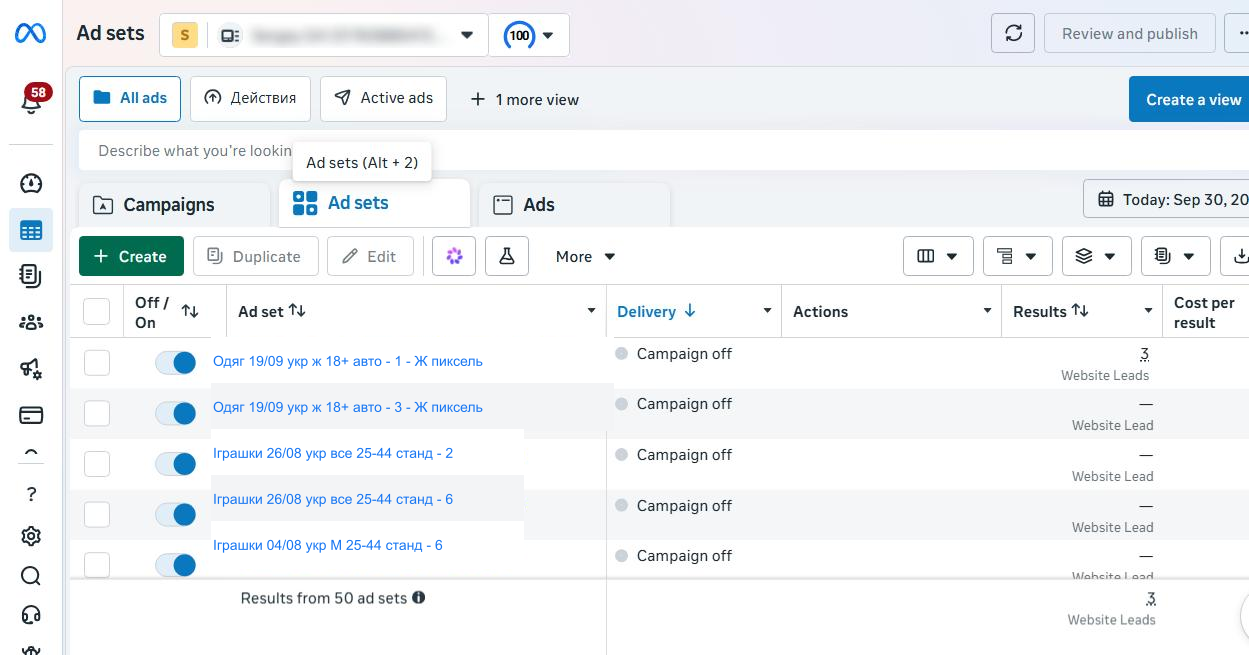
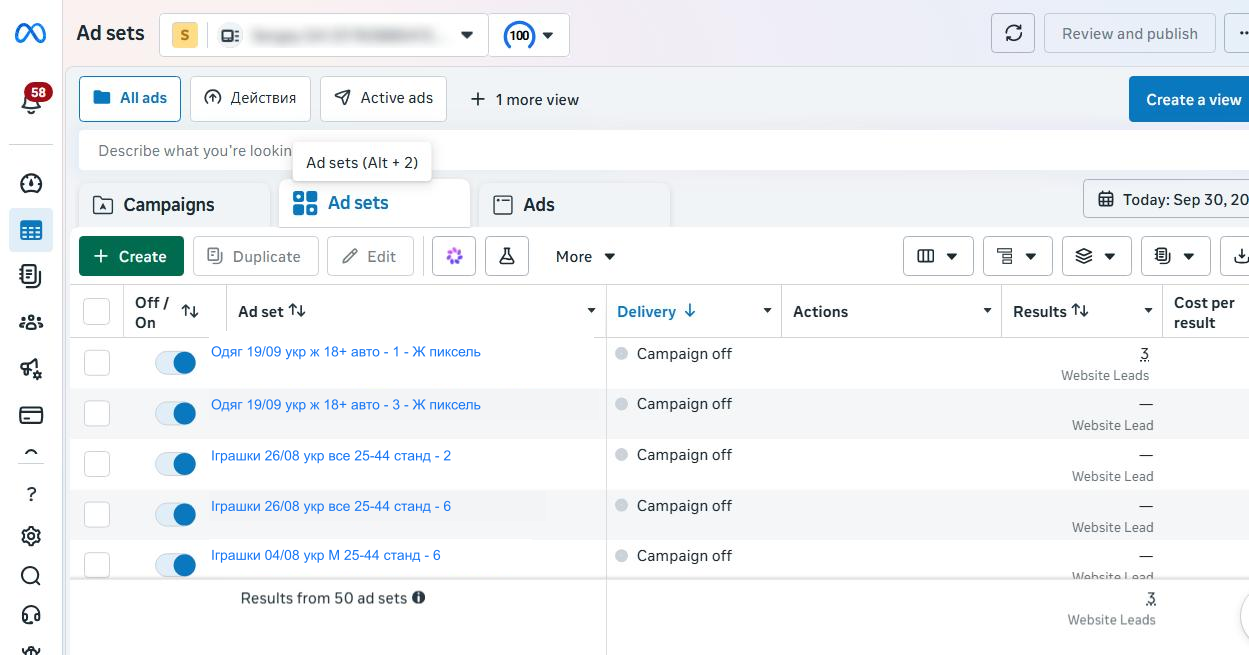
Fix vertical text alignment by scanning real pixels instead of DOM rects
Ioan's screenshot showed the relabeled campaign names floating too high in
their row (visible empty gap below), not vertically centered like the rest
of the row. Root cause: getBoundingClientRect() coordinates don't reliably
match screenshot pixels, and the oversized "full row height" band used to
tolerate that drift left visible empty space instead of just fixing it.

New approach (scripts/bm-tools/find_text_rows.cjs): scan the actual
screenshot pixels for the blue link-colored text and take its real y/x
bounds directly, no DOM measurement involved. Boxes are now tightly sized
to the real text plus a small margin, so labels sit centered in their row
exactly like the toggle switches and status text beside them.

diff --git a/content/business-manager-map/00-roadmap.md b/content/business-manager-map/00-roadmap.md
@@ -42,14 +42,17 @@
    скріншота** (з порожнього місця в тому ж рядку), не hardcoded білий — інакше виглядає
    як заліплено в Paint. З урахуванням зебра-смуг (парні/непарні рядки трохи різний відтінок)
    семпл робиться **окремо для кожного рядка**.
-3. Координати рядків через `getBoundingClientRect()` **не збігаються 1:1** зі скріншот-пікселями
-   навіть коли `window.innerWidth` дорівнює ширині скріншота — і сам зсув нестабільний між
-   викликами (в одному тесті знадобилось +26px по Y, в іншому — інше). Тому: міряй координати,
-   одразу роби скріншот (без пауз між ними), і бери **великий прямокутник на всю висоту рядка**
-   (~46px, а не щільно по тексту). Пробний рендер → подивитись на картинку → підправити цифри.
-4. Ширину прямокутника підбирай **індивідуально по рядку** (не одне число на всі): замало —
-   лишається «примара» старого тексту праворуч; забагато — заліз у сусідню колонку (Delivery).
-   Орієнтир: права межа прямокутника ≈ на 10-15px раніше початку наступної колонки.
+3. **Координати рядків через `getBoundingClientRect()` ненадійні** — навіть коли
+   `window.innerWidth` збігається з шириною скріншота, є стабільний зсув по Y (у різних
+   спробах різний, від +26 до +40px), і оверсайз-прямокутник «на всю висоту рядка», яким
+   спершу закрили це питання, залишає видиму порожнечу зверху/знизу тексту — текст «плаває»
+   не по центру рядка. **Правильний спосіб — сканувати РЕАЛЬНІ пікселі скріншота**, а не
+   довіряти DOM-координатам: `scripts/bm-tools/find_text_rows.cjs` проходить по стовпцю,
+   де мають бути назви, і шукає рядки з кольоровими (не сіро-білими) пікселями — це і є
+   точні межі синього тексту-посилання. Дає рівно той прямокутник, що треба, без підбору
+   навмання. Той самий скрипт для X-меж на рядок (посилання різної довжини).
+4. Прямокутник підганяй по фактичних межах тексту з кроку 3 (+невеликий відступ, ~4-5px),
+   а не «з запасом» — інакше зайве порожнє поле над/під текстом впадає в очі.
 
 ## Ads Manager (рекламний кабінет одного акаунта)
 | Розділ | Статус | Примітка |
